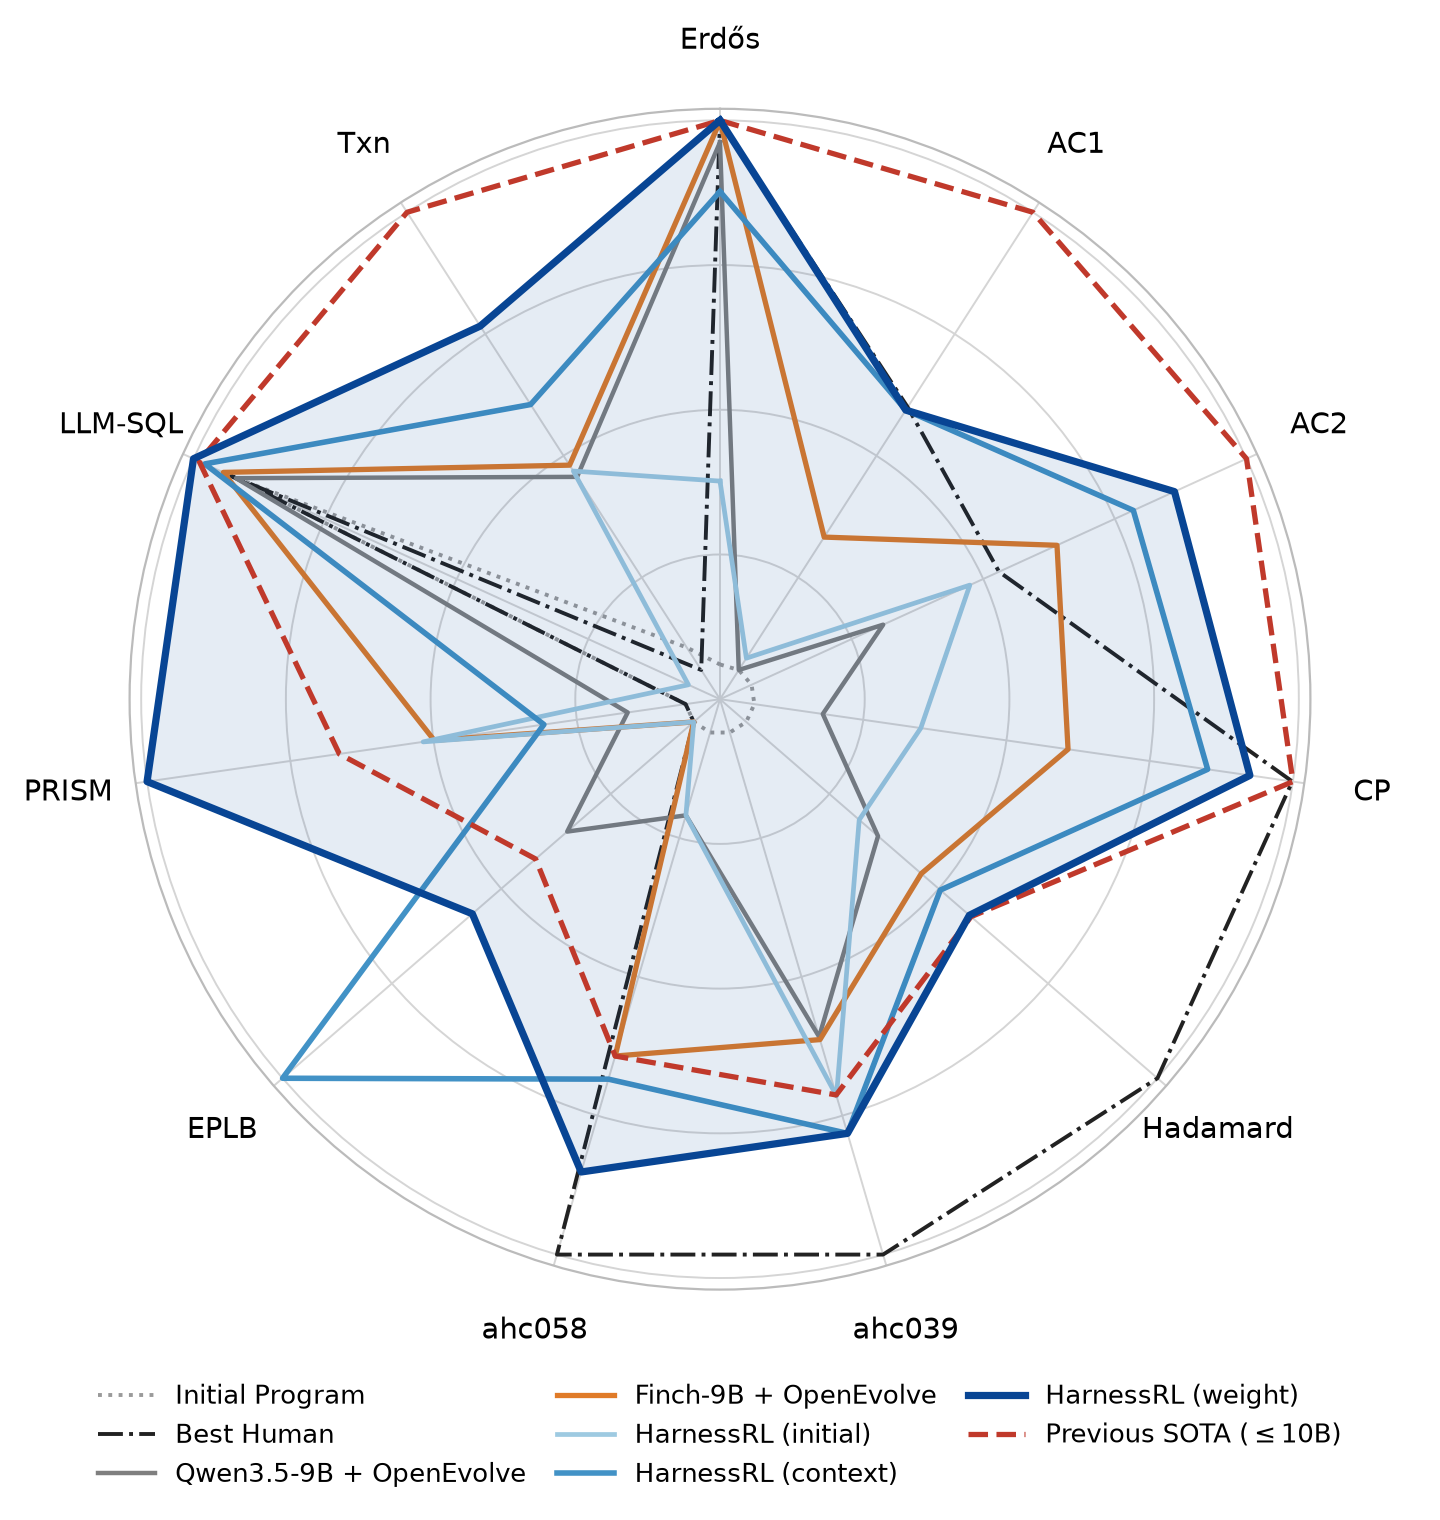
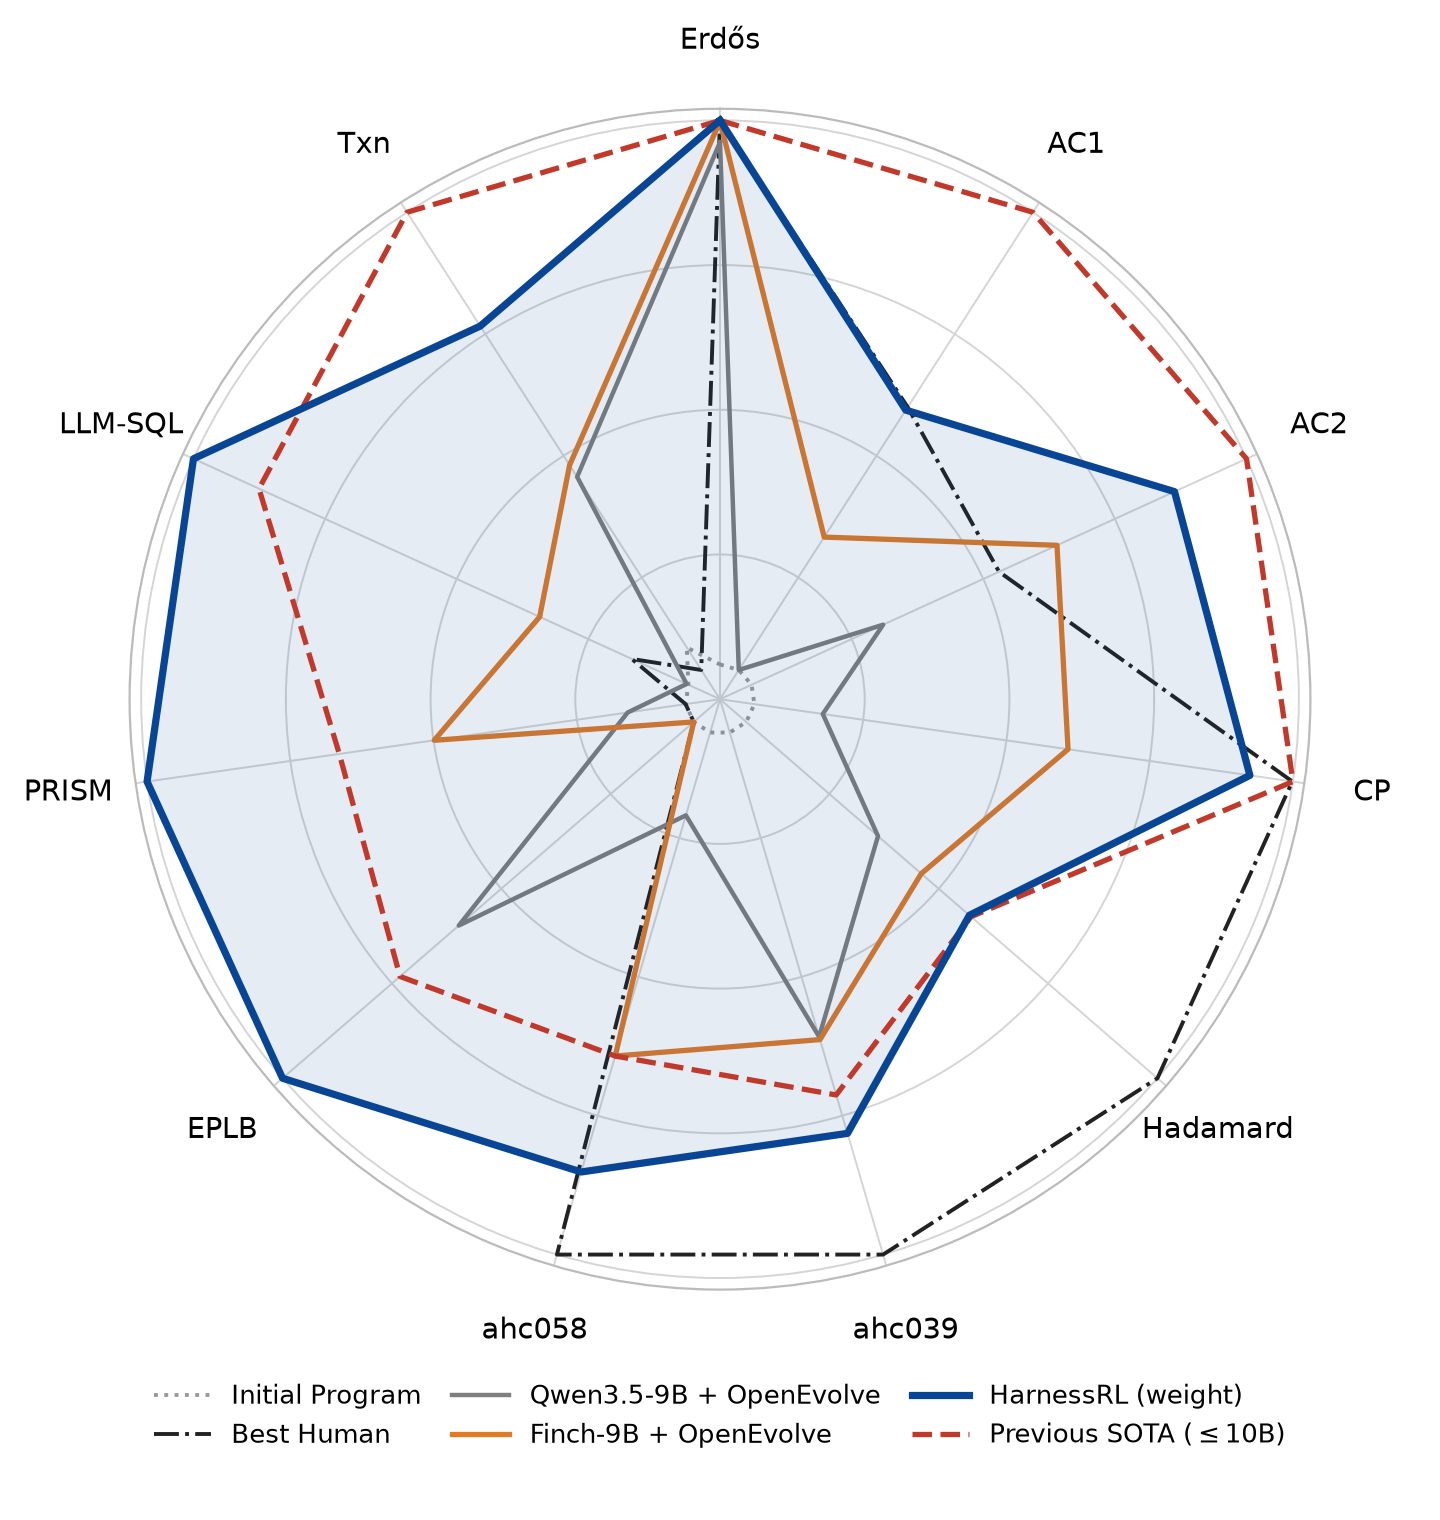
radar: drop the context and initial conditions, keep only HarnessRL (weight)
Six series; per-axis min-max re-normalizes over the remaining series, so the
axes read cleaner (EPLB's rim now belongs to the full method, LLM-SQL's floor
is the initial program rather than our collapsed fixed-harness run).

diff --git a/scripts/draw_radar_method_ablation.py b/scripts/draw_radar_method_ablation.py
@@ -32,14 +32,6 @@ SERIES = {  # name -> (values, style)
    ([0.381100, 1.5141, 0.9122, 1.936000, 0.480585, 553759, 525286896,
      0.1265, 23.93, 0.7024, 3636.36],
     dict(color="#e07b28", ls="-",  lw=1.9, zorder=5)),
- "HarnessRL (initial)":
-   ([0.456591, 1.5182, 0.8961, 1.477767, 0.360961, 557225, 134487000,
-     0.1265, 24.02, 0.0934, 3610.11],
-    dict(color="#9ecae1", ls="-",  lw=1.7, zorder=6)),
- "HarnessRL (context)":
-   ([0.395849, 1.5098, 0.9263, 2.370463, 0.517212, 559534, 562824208,
-     0.1278, 23.04, 0.7267, 3906.25],
-    dict(color="#4292c6", ls="-",  lw=2.0, zorder=7)),
  "HarnessRL (weight)":
    ([0.380919, 1.5098, 0.9339, 2.502000, 0.573283, 559534, 713552303,
      0.1272, 26.26, 0.7415, 4255.32],
